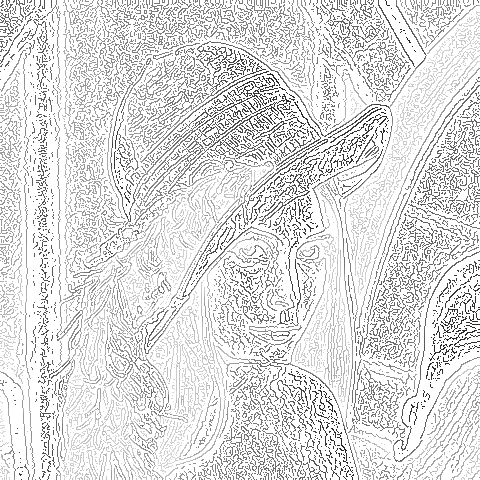
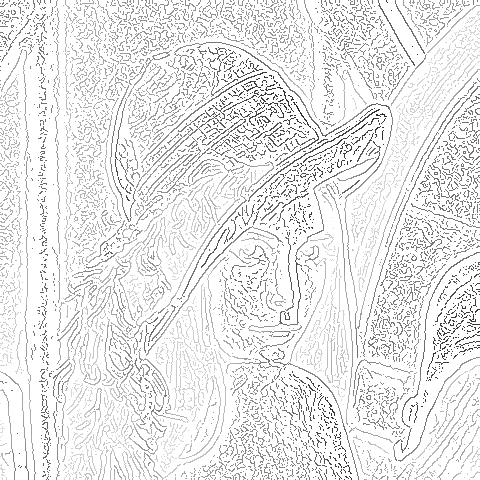
Added Sobel Trial

Changed region(s): [[0.0, 0.0, 1.0, 1.0]]

diff --git a/CompVisionProject/main.cpp b/CompVisionProject/main.cpp
@@ -23,6 +23,11 @@ struct IMAGEDATA {
 	cv::Mat cannyGaussianDetectedEdges;
 	cv::Mat cannyNormalizedDetectedEdges;
 	cv::Mat laplaceDest;
+	cv::Mat sobelGrad;
+	cv::Mat sobelXGrad;
+	cv::Mat sobelYGrad;
+	cv::Mat sobelAbsXGrad;
+	cv::Mat sobelAbsYGrad;
 	int canny_lowThresh;
 	int canny_Ratio = 3;
 	int canny_Kernel = 3;
@@ -30,6 +35,9 @@ struct IMAGEDATA {
 	int laplace_scale = 1;
 	int laplace_delta = 0;
 	int laplace_ddepth = CV_16S;
+	int sobel_scale = 1;
+	int sobel_delta = 0;
+	int sobel_ddepth = CV_16S;
 } id;
 
 
@@ -225,6 +233,87 @@ Performs a Laplacian edge detector using Gausian filter.
 	 double finalGCTime = (cv::getTickCount()) / (cv::getTickFrequency());
 	 file << finalGCTime * 1000 << " ms" << std::endl;
 	 file << "Laplacian w/ Box Filter Blur took " << ((finalGCTime - initGCTime) * 1000) << " ms to complete." << std::endl;
+ }
+
+ /*
+Perform Sobel edge detection using Gaussian blur
+ */
+ void gaussianSobel(std::ofstream &file, char *argv, cv::Mat &mat) {
+	 file << "Starting Sobel w/ Gaussian Blur. Initial time: ";
+	 double initGCTime = (cv::getTickCount()) / (cv::getTickFrequency());
+	 file << initGCTime * 1000 << " ms" << std::endl;
+	 cv::GaussianBlur(id.currentFrameColor, id.currentFrameColor, cv::Size(3, 3), 0, 0, cv::BORDER_DEFAULT);
+	 cv::cvtColor(id.currentFrameColor, id.currentFrameGry, cv::COLOR_RGB2GRAY);
+
+	 // Perform Sobel on X-Gradient
+	 cv::Sobel(id.currentFrameGry, id.sobelXGrad, id.sobel_ddepth, 1, 0, 3, id.sobel_scale, id.sobel_delta, cv::BORDER_DEFAULT);
+	 cv::convertScaleAbs(id.sobelXGrad, id.sobelAbsXGrad);
+
+	 // Perform Sobel on Y-Gradient
+	 cv::Sobel(id.currentFrameGry, id.sobelYGrad, id.sobel_ddepth, 1, 0, 3, id.sobel_scale, id.sobel_delta, cv::BORDER_DEFAULT);
+	 cv::convertScaleAbs(id.sobelYGrad, id.sobelAbsYGrad);
+
+	 // Add Gradients
+	 cv::addWeighted(id.sobelAbsXGrad, 0.5, id.sobelAbsYGrad, 0.5, 0, id.sobelGrad);
+	 file << "Sobel w/ Gaussian Blur finished. Final Time: ";
+	 double finalGCTime = (cv::getTickCount()) / (cv::getTickFrequency());
+	 file << finalGCTime * 1000 << " ms" << std::endl;
+	 file << "Sobel w/ Gaussian Blur took " << ((finalGCTime - initGCTime) * 1000) << " ms to complete." << std::endl;
+	 mat = id.sobelGrad;
+ }
+
+ /*
+ Perform Sobel edge detection using Normalized Box Filter
+ */
+ void normalizedSobel(std::ofstream &file, char *argv, cv::Mat &mat) {
+	 file << "Starting Sobel w/ Normalized Box Filter. Initial time: ";
+	 double initGCTime = (cv::getTickCount()) / (cv::getTickFrequency());
+	 file << initGCTime * 1000 << " ms" << std::endl;
+	 cv::blur(id.currentFrameColor, id.currentFrameColor, cv::Size(3, 3));
+	 cv::cvtColor(id.currentFrameColor, id.currentFrameGry, cv::COLOR_RGB2GRAY);
+
+	 // Perform Sobel on X-Gradient
+	 cv::Sobel(id.currentFrameGry, id.sobelXGrad, id.sobel_ddepth, 1, 0, 3, id.sobel_scale, id.sobel_delta, cv::BORDER_DEFAULT);
+	 cv::convertScaleAbs(id.sobelXGrad, id.sobelAbsXGrad);
+
+	 // Perform Sobel on Y-Gradient
+	 cv::Sobel(id.currentFrameGry, id.sobelYGrad, id.sobel_ddepth, 1, 0, 3, id.sobel_scale, id.sobel_delta, cv::BORDER_DEFAULT);
+	 cv::convertScaleAbs(id.sobelYGrad, id.sobelAbsYGrad);
+
+	 // Add Gradients
+	 cv::addWeighted(id.sobelAbsXGrad, 0.5, id.sobelAbsYGrad, 0.5, 0, id.sobelGrad);
+	 file << "Sobel w/ Normalized Box Filter finished. Final Time: ";
+	 double finalGCTime = (cv::getTickCount()) / (cv::getTickFrequency());
+	 file << finalGCTime * 1000 << " ms" << std::endl;
+	 file << "Sobel w/ Normalized Box Filter took " << ((finalGCTime - initGCTime) * 1000) << " ms to complete." << std::endl;
+	 mat = id.sobelGrad;
+ }
+
+ /*
+ Perform Sobel edge detection using Normalized Box Filter
+ */
+ void boxSobel(std::ofstream &file, char *argv, cv::Mat &mat) {
+	 file << "Starting Sobel w/ Box Filter. Initial time: ";
+	 double initGCTime = (cv::getTickCount()) / (cv::getTickFrequency());
+	 file << initGCTime * 1000 << " ms" << std::endl;
+	 cv::boxFilter(id.currentFrameColor, id.currentFrameColor, -1, cv::Size(3, 3), cv::Point(-1, -1), true, cv::BORDER_DEFAULT);
+	 cv::cvtColor(id.currentFrameColor, id.currentFrameGry, cv::COLOR_RGB2GRAY);
+
+	 // Perform Sobel on X-Gradient
+	 cv::Sobel(id.currentFrameGry, id.sobelXGrad, id.sobel_ddepth, 1, 0, 3, id.sobel_scale, id.sobel_delta, cv::BORDER_DEFAULT);
+	 cv::convertScaleAbs(id.sobelXGrad, id.sobelAbsXGrad);
+
+	 // Perform Sobel on Y-Gradient
+	 cv::Sobel(id.currentFrameGry, id.sobelYGrad, id.sobel_ddepth, 1, 0, 3, id.sobel_scale, id.sobel_delta, cv::BORDER_DEFAULT);
+	 cv::convertScaleAbs(id.sobelYGrad, id.sobelAbsYGrad);
+
+	 // Add Gradients
+	 cv::addWeighted(id.sobelAbsXGrad, 0.5, id.sobelAbsYGrad, 0.5, 0, id.sobelGrad);
+	 file << "Sobel w/ Box Filter finished. Final Time: ";
+	 double finalGCTime = (cv::getTickCount()) / (cv::getTickFrequency());
+	 file << finalGCTime * 1000 << " ms" << std::endl;
+	 file << "Sobel w/ Box Filter took " << ((finalGCTime - initGCTime) * 1000) << " ms to complete." << std::endl;
+	 mat = id.sobelGrad;
  }
 
  /*
@@ -470,6 +559,127 @@ Performs a Laplacian edge detector using Gausian filter.
 	 }
  }
 
+ /*
+ Perform the Sobel edge detector trials.
+ - Pavel Shekhter
+ */
+ void sobelTrial(std::ofstream &file, char ** argv, int i, int trial) {
+
+	 cv::Mat gaussSobelMat;
+	 bool isGSDone = false;
+	 std::thread gaussSobel(&gaussianSobel, std::ref(file), argv[i], std::ref(gaussSobelMat));
+	 if (gaussSobel.joinable()) {
+		 gaussSobel.join();
+		 isGSDone = true;
+	 }
+
+	 if (!gaussSobelMat.empty() || isGSDone == true) {
+		 std::vector<int> comp_params;
+		 comp_params.push_back(CV_IMWRITE_JPEG_QUALITY);
+		 comp_params.push_back(100);
+		 std::string im = argv[i];
+		 boost::filesystem::path image_path(im);
+		 if (boost::filesystem::exists(image_path)) {
+			 std::string imp = image_path.filename().generic_string();
+			 try {
+				 bool save = cv::imwrite("trial_" + std::to_string(trial) + "_sobel_gaussian_" + imp, gaussSobelMat, comp_params);
+				 cv::Mat gaussSobelInv;
+				 cv::bitwise_not(gaussSobelMat, gaussSobelInv);
+				 save = cv::imwrite("trial_" + std::to_string(trial) + "_sobel_gaussian_inv_" + imp, gaussSobelInv, comp_params);
+			 }
+			 catch (std::runtime_error& e) {
+				 appendErrorMessage(file, -3);
+				 fprintf(stderr, "Unable to write file due to: %s\n", e.what());
+			 }
+		 }
+	 }
+
+	 if (!gaussSobelMat.empty()) {
+		 cv::namedWindow("Sobel: Gaussian", CV_WINDOW_NORMAL);
+		 cv::imshow("Sobel: Gaussian", gaussSobelMat);
+		 cv::namedWindow("Sobel: Gaussian Blur Inverted", CV_WINDOW_NORMAL);
+		 cv::Mat gaussSobelInv;
+		 cv::bitwise_not(gaussSobelMat, gaussSobelInv);
+		 cv::imshow("Sobel: Gaussian Blur Inverted", gaussSobelInv);
+	 }
+
+	 cv::Mat normalizedSobelMat;
+	 bool isNSDone = false;
+	 std::thread normSobel(&normalizedSobel, std::ref(file), argv[i], std::ref(normalizedSobelMat));
+	 if (normSobel.joinable()) {
+		 normSobel.join();
+		 isNSDone = true;
+	 }
+
+	 if (!normalizedSobelMat.empty() || isNSDone == true) {
+		 std::vector<int> comp_params;
+		 comp_params.push_back(CV_IMWRITE_JPEG_QUALITY);
+		 comp_params.push_back(100);
+		 std::string im = argv[i];
+		 boost::filesystem::path image_path(im);
+		 if (boost::filesystem::exists(image_path)) {
+			 std::string imp = image_path.filename().generic_string();
+			 try {
+				 bool save = cv::imwrite("trial_" + std::to_string(trial) + "_sobel_normalized_" + imp, normalizedSobelMat, comp_params);
+				 cv::Mat normSobelInv;
+				 cv::bitwise_not(normalizedSobelMat, normSobelInv);
+				 save = cv::imwrite("trial_" + std::to_string(trial) + "_sobel_normalized_inv_" + imp, normSobelInv, comp_params);
+			 }
+			 catch (std::runtime_error& e) {
+				 appendErrorMessage(file, -3);
+				 fprintf(stderr, "Unable to write file due to: %s\n", e.what());
+			 }
+		 }
+	 }
+
+	 if (!normalizedSobelMat.empty()) {
+		 cv::namedWindow("Sobel: Normalized", CV_WINDOW_NORMAL);
+		 cv::imshow("Sobel: Normalized", normalizedSobelMat);
+		 cv::namedWindow("Sobel: Normalized Inverted", CV_WINDOW_NORMAL);
+		 cv::Mat normSobelInv;
+		 cv::bitwise_not(normalizedSobelMat, normSobelInv);
+		 cv::imshow("Sobel: Normalized Inverted", normSobelInv);
+	 }
+
+	 cv::Mat boxSobelMat;
+	 bool isBSDone = false;
+	 std::thread boxSobel(&boxSobel, std::ref(file), argv[i], std::ref(boxSobelMat));
+	 if (boxSobel.joinable()) {
+		 boxSobel.join();
+		 isBSDone = true;
+	 }
+
+	 if (!boxSobelMat.empty() || isBSDone == true) {
+		 std::vector<int> comp_params;
+		 comp_params.push_back(CV_IMWRITE_JPEG_QUALITY);
+		 comp_params.push_back(100);
+		 std::string im = argv[i];
+		 boost::filesystem::path image_path(im);
+		 if (boost::filesystem::exists(image_path)) {
+			 std::string imp = image_path.filename().generic_string();
+			 try {
+				 bool save = cv::imwrite("trial_" + std::to_string(trial) + "_sobel_box_" + imp, boxSobelMat, comp_params);
+				 cv::Mat boxSobelInv;
+				 cv::bitwise_not(boxSobelMat, boxSobelInv);
+				 save = cv::imwrite("trial_" + std::to_string(trial) + "_laplace_box_inv_" + imp, boxSobelInv, comp_params);
+			 }
+			 catch (std::runtime_error& e) {
+				 appendErrorMessage(file, -3);
+				 fprintf(stderr, "Unable to write file due to: %s\n", e.what());
+			 }
+		 }
+	 }
+
+	 if (!boxSobelMat.empty()) {
+		 cv::namedWindow("Sobel: Box Filter", CV_WINDOW_NORMAL);
+		 cv::namedWindow("Sobel: Box Filter Inverted", CV_WINDOW_NORMAL);
+		 cv::imshow("Sobel: Box Filter", boxSobelMat);
+		 cv::Mat boxSobelInv;
+		 cv::bitwise_not(boxSobelMat, boxSobelInv);
+		 cv::imshow("Sobel: Box Filter Inverted", boxSobelInv);
+	 }
+ }
+
  int main(int argc, char* argv[]) {
 	 int cycles = 0;
 	 std::string cyclesString;
@@ -505,8 +715,9 @@ Performs a Laplacian edge detector using Gausian filter.
 			cv::imshow("Computer Vision Demo", id.currentFrameColor);
 			cv::cvtColor(id.currentFrameColor, id.currentFrameGry, cv::COLOR_BGR2GRAY);
 
-			cannyTrial(file, argv, i, trials);
 			laplaceTrial(file, argv, i, trials);
+			cannyTrial(file, argv, i, trials);
+			sobelTrial(file, argv, i, trials);
 
 			printf("Finished running edge detection. Press Esc to quit. Images and report will be found in folder where CompVisionDemo.exe is located.\n");
 			cv::waitKey(0);
